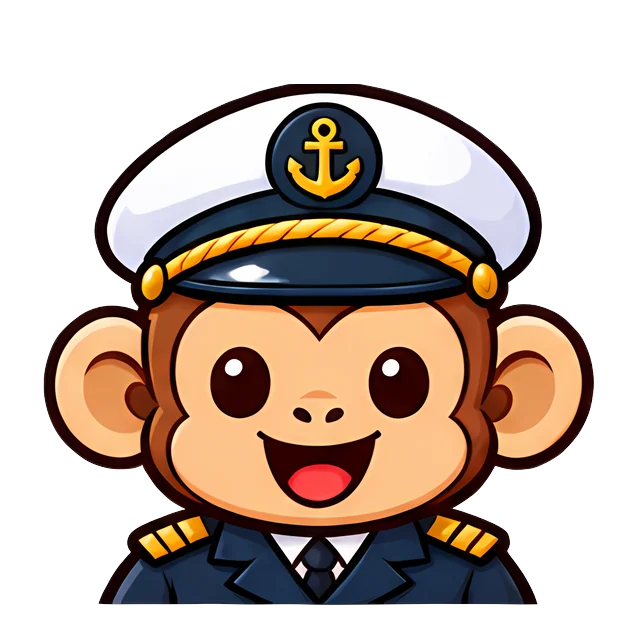
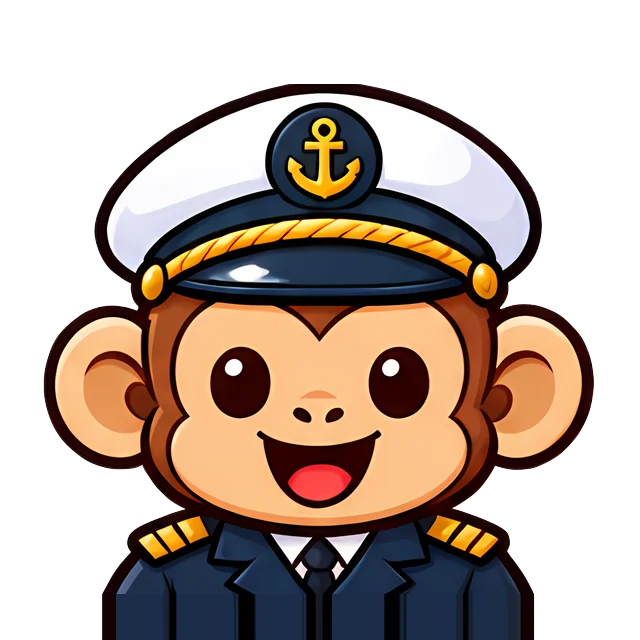
Avatare: kurze Oberkörper bis zum Kreisrand ergänzt
Bei den Affen der ersten Serie (unten flach abgeschnitten) wird die kleine Restlücke zum Kreisrand
mit einer kurzen Verlängerung der Kleidung gefüllt.

Claude-Session: https://claude.ai/code/session_01PDAY6jJVKt3LYYTn7dMH6m

Changed region(s): [[0.1562, 0.9062, 0.8438, 1.0]]

diff --git a/sw.js b/sw.js
@@ -1,5 +1,5 @@
 // Offline support: app files (including the fonts) are cached on install.
-const VERSION = "geoaffe-v29";
+const VERSION = "geoaffe-v30";
 const APP = ["./", "data.js", "d3.min.js", "topojson.min.js", "manifest.webmanifest", "icon-192.png", "icon-512.png", "apple-touch-icon.png", "favicon-32.png", "icon-maskable-192.png", "icon-maskable-512.png", "fonts/fredoka-latin.woff2", "fonts/fredoka-latin-ext.woff2", "fonts/nunito-latin.woff2", "fonts/nunito-latin-ext.woff2", "avatars/entdecker.webp", "avatars/pilot.webp", "avatars/astronaut.webp", "avatars/pirat.webp", "avatars/koch.webp", "avatars/koenig.webp", "avatars/taucher.webp", "avatars/cowboy.webp", "avatars/wikinger.webp", "avatars/ninja.webp", "avatars/dj.webp", "avatars/skifahrer.webp", "avatars/kapitaen.webp", "avatars/detektiv.webp", "avatars/party.webp", "avatars/fussballer.webp", "avatars/maler.webp", "avatars/surfer.webp", "avatars/feuerwehr.webp", "avatars/zauberer.webp", "avatars/superheld.webp", "avatars/gamer.webp", "avatars/weihnachtsmann.webp", "avatars/rockstar.webp", "avatars/arzt.webp", "avatars/bergsteiger.webp", "avatars/tennis.webp", "avatars/bauarbeiter.webp", "avatars/gaertner.webp", "avatars/tourist.webp"];
 self.addEventListener("install", e => { e.waitUntil(caches.open(VERSION).then(c => c.addAll(APP)).then(() => self.skipWaiting())); });
 self.addEventListener("activate", e => {
